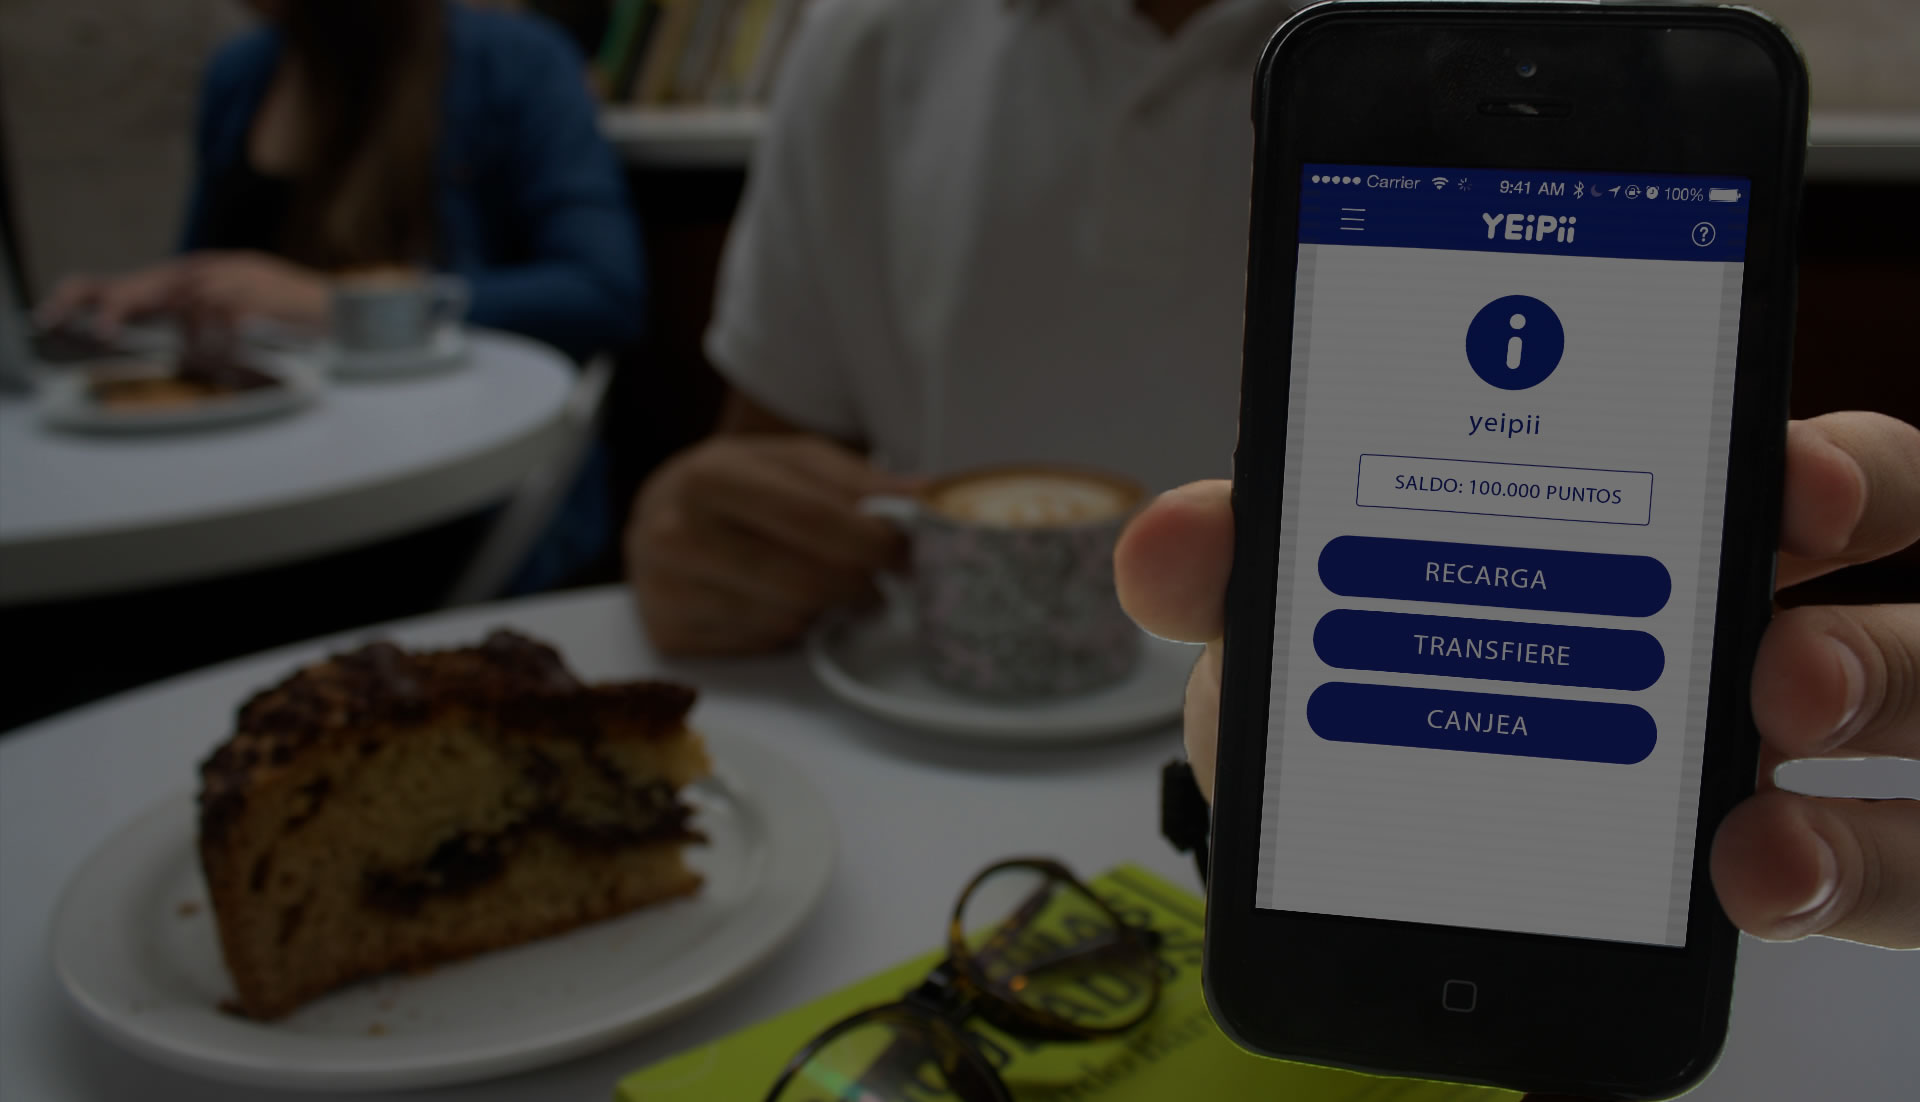
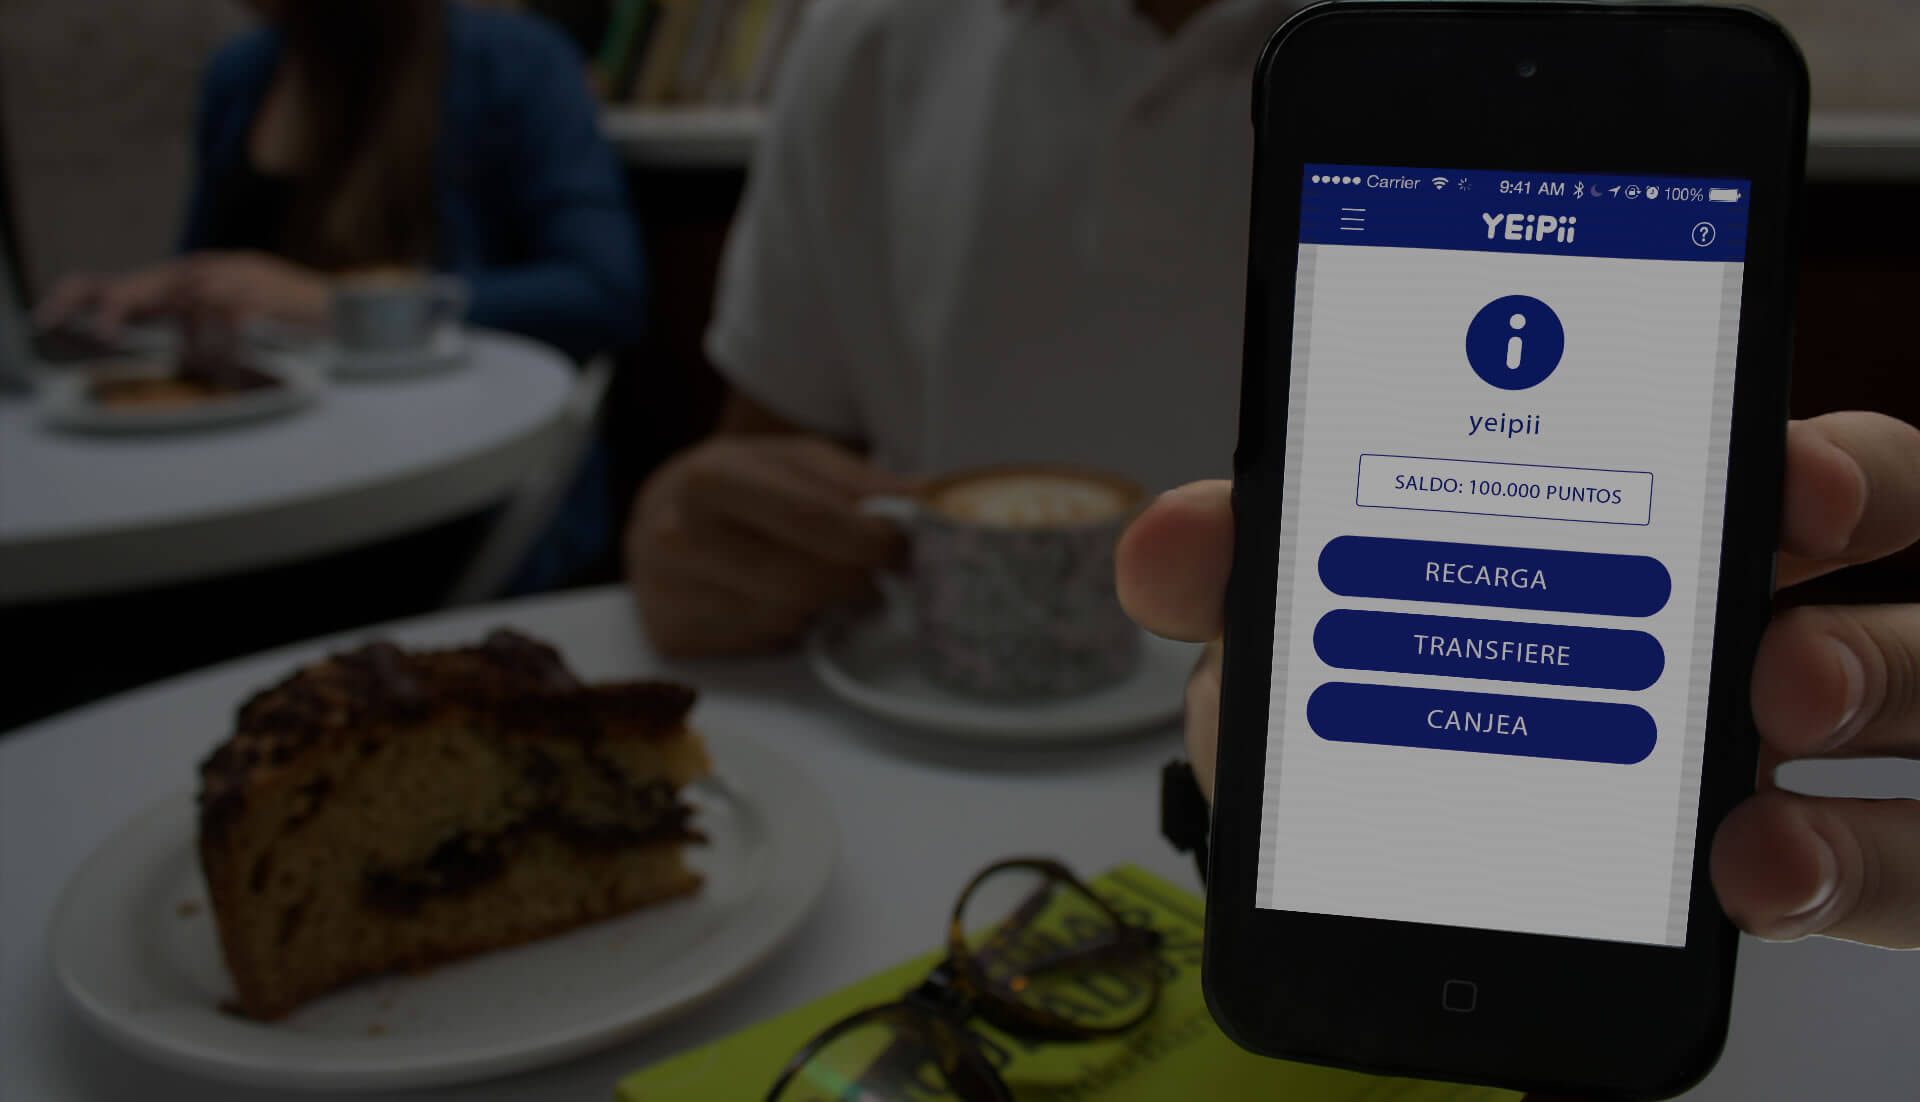
LISTO EL BG

diff --git a/donde-estamos.html b/donde-estamos.html
@@ -231,7 +231,7 @@
 					</button>
 					<button id="BtnFarmacia" class="button-YEiPii-secondary"  onclick="farm()">
 						<img src="images/categorias/farmacia.png" alt="Farmacia">
-						<span class="center">Farmacia</span>
+						<span class="center">Farmacias</span>
 					</button>
 					<button id="BtnDiscotecas" class="button-YEiPii-secondary" onclick="dis()">
 						<img src="images/categorias/discotecas.png" alt="Lugar">
